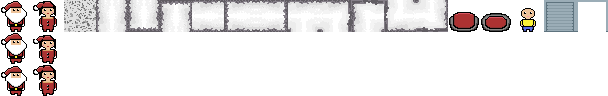
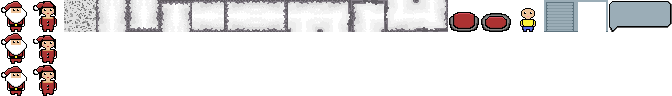
add textbackound texture

Changed region(s): [[0.0, 0.0, 1.0, 1.0]]

diff --git a/a.cpp b/a.cpp
@@ -1,0 +1,141 @@
+#include <bits/stdc++.h>
+using namespace std;
+
+using ll = long long;
+int n, m, c, q;
+const int N = 1000001;
+
+int parent[N];
+int depth[N];
+unordered_set<int> source;
+unordered_set<int> spoiled;
+vector<int> adjList[N];
+int s[N];
+int numOfMagic = 0;
+int find(int x) {
+    while (parent[x] != -1) x = parent[x];
+    return x;
+}
+bool counted[N];
+bool isSource(int x) {
+    return source.find(x) != source.end();
+}
+
+bool isSpoiled(int x) {
+    return spoiled.find(x) != spoiled.end();
+}
+void Union(int x, int y) {
+    x = find(x);
+    y = find(y);
+    if (x == y) return;
+
+    if (isSource(y) && !isSource(x)) {
+        swap(x, y);
+    } 
+
+    if ((isSource(x) && isSource(y)) || (!isSource(x) && !isSource(y))) {
+        if (depth[x] < depth[y]) swap(x, y);
+    }
+
+    parent[y] = x;
+    if (depth[x] == depth[y]) depth[x]++;
+    s[x] += s[y];
+
+    if (isSource(x) && !isSource(y)) {
+        numOfMagic += s[y];
+    }
+    
+}
+
+void solve(void){
+    cin >> n >> m >> c;
+    for (int i = 0; i < n; i++) {
+        parent[i] = -1;
+        s[i] = 1;
+    }
+    for (int i = 0; i < c; i++) {
+        int a;
+        cin >> a;
+        a--;
+        source.insert(a);
+    }
+
+    for (int i = 0; i < m; i++) {
+        int a, b;
+        cin >> a >> b;
+        a--; b--;
+        adjList[a].push_back(b);
+        adjList[b].push_back(a);
+    }
+
+    int q;
+    cin >> q;
+    vector<int> queries;
+    for (int i = 0; i < q; i++) {
+        int a;
+        cin >> a;
+        a--;
+        spoiled.insert(a);
+        queries.push_back(a);
+    }
+
+    for (int u = 0; u < n; u++) {
+        if (isSpoiled(u)) continue;
+        for (int v : adjList[u]) {
+            if (isSpoiled(v)) continue;
+            Union(v, u);
+        }
+    }
+    numOfMagic = 0;
+    for (int i = 0; i < n; i++) {
+        if (isSpoiled(i) || !isSource(i)) continue;
+        int p = find(i);
+        if (!counted[p]) {
+            counted[p] = true;
+            numOfMagic += s[p];
+        }
+    }
+    int finalMagic = numOfMagic;
+  //  cout << numOfMagic << "\n";
+    vector<int> magic(q);
+    for (int i = q - 1; i >= 0; i--) {
+        int u = queries[i];
+        // add to the forest
+        
+        spoiled.erase(u);
+        for (auto v : adjList[u]) {
+            
+            if (!isSpoiled(v)) {
+                Union(v, u);
+              //  cout << "union: " << v << " " << u << " " << numOfMagic << "\n";
+            }
+        }
+        if (isSource(u)) {
+            numOfMagic++;
+        }
+        magic[i] = numOfMagic;
+    }
+
+    vector<int> ans(q);
+    ans[q - 1] = - finalMagic + magic[q - 1];
+   
+    for (int i = q - 2; i >= 0; i--) {
+        ans[i] = magic[i] - magic[i + 1];
+    }
+
+    for (int i = 0; i < q; i++) {
+        cout << ans[i] << "\n";
+    }
+
+}
+
+
+int main(void) {
+    ios_base::sync_with_stdio(false);
+    cin.tie(NULL);
+    cout.tie(NULL);
+
+    solve();
+    
+    return 0;
+}

diff --git a/src/State/State.cpp b/src/State/State.cpp
@@ -153,12 +153,15 @@ void State::InitInternal()
         srcRectangleSize = Vector2(16, 24);
         zIndex = 1;
         std::string tileName = "Child" + std::to_string(x) + std::to_string(y);
-        TextBox* textBox = new TextBox(tileName + "textBox", tilePosition + (Vector2){50, -50}, {}, 2, "I want a bike", false);
+        
+        Object* textBackground = new Object(tileName + "textBoxBackground", tilePosition + (Vector2){50, -50}, {64, 32}, src, {19*32, 0}, {64, 32}, 1, false);
+        TextBox* textBox = new TextBox(tileName + "textBox", tilePosition + (Vector2){50, -50}, {}, 2, "I want a bike", textBackground, false);
         Child* Child1 = new Child(
             tileName, tilePosition, tileSize,
             src, srcRectangle, srcRectangleSize, zIndex, textBox);
         AddObjectToAll(Child1);
         AddObjectToAll(textBox);
+        AddObjectToAll(textBackground);
       }
     }
   }
@@ -167,11 +170,11 @@ void State::InitInternal()
   score = 0;
 
   Vector2 positionLivesText(25, 25);
-  livesText = new TextBox("LivesText", positionLivesText, {}, 2, "3", Game::GetGameFont());
+  livesText = new TextBox("LivesText", positionLivesText, {}, 2, "3", NULL, Game::GetGameFont());
   AddObjectToAll(livesText);
 
   Vector2 positionScoreText(Game::GetWidth() - 25, 25);
-  scoreText = new TextBox("ScoreText", positionScoreText, {}, 2, "1", Game::GetGameFont());
+  scoreText = new TextBox("ScoreText", positionScoreText, {}, 2, "1", NULL, Game::GetGameFont());
   AddObjectToAll(scoreText);
 
   // call begin for all objects

diff --git a/src/Graphics/Text.cpp b/src/Graphics/Text.cpp
@@ -21,6 +21,7 @@ void Text::Render(const SDL_Rect* sourceRectangle,
     TTF_SizeText(Game::GetGameFont(), currentText.c_str(), &w, &h);
     destinationRectangle->w = w;
     destinationRectangle->h = h;
+
     SDL_RenderCopyExF(Graphics::GetRenderer(), texture->GetTexture(), NULL, destinationRectangle, angle, center, flip);    
 }
 
@@ -30,13 +31,9 @@ void Text::RegenerateTexture(const SDL_Color& newColor, const std::string& newTe
     SDL_Surface* surface = TTF_RenderText_Solid(Game::GetGameFont(), currentText.c_str(), newColor);
     if(texture)
     {
-        delete texture;
-        texture = new Texture(SDL_CreateTextureFromSurface(Graphics::GetRenderer(), surface), "TextTexture");
+        delete texture;  
     }
-    else
-    {
-        texture = new Texture(SDL_CreateTextureFromSurface(Graphics::GetRenderer(), surface), "TextTexture");
-    }
+    texture = new Texture(SDL_CreateTextureFromSurface(Graphics::GetRenderer(), surface), "TextTexture");
     SDL_FreeSurface(surface);
 }
 

diff --git a/include/State/TextBox.h b/include/State/TextBox.h
@@ -9,10 +9,12 @@
 class TextBox : public Object {
 private:
     std::string text;
+    Object* textBackground;
 public:
     TextBox(const std::string& newName, Vector2 startingPosition, Vector2 startingSize,
-         int zIndexNew, const std::string &text , bool bIsVisibleNew=true, float rotation = 0.0);
+         int zIndexNew, const std::string &text , Object* textBackground, bool bIsVisibleNew=true, float rotation = 0.0);
 
     void setText(const std::string& newText);
     std::string getText() const {return text; }
+    void setBIsVisible(bool bIsVisible) { this->bIsVisible = bIsVisible; this->textBackground->bIsVisible = bIsVisible; };
 };

diff --git a/src/State/TextBox.cpp b/src/State/TextBox.cpp
@@ -4,9 +4,9 @@
 #include "Graphics/Text.h"
 
 TextBox::TextBox(const std::string& newName, Vector2 startingPosition, Vector2 startingSize,
-int zIndexNew, const std::string &text , bool bIsVisibleNew, float rotation)
+int zIndexNew, const std::string &text , Object* textBackground, bool bIsVisibleNew, float rotation)
 : Object(newName, startingPosition, startingSize, "", {}, {}, zIndexNew, 
-false, false, bIsVisibleNew, rotation),text(text){
+false, false, bIsVisibleNew, rotation),text(text), textBackground(textBackground) {
 
 }
 

diff --git a/src/State/Child.cpp b/src/State/Child.cpp
@@ -26,9 +26,9 @@ void Child::Update(float deltatime)
 	
 	if (bothPlayersClose) 
 	{
-		textBox->bIsVisible = true;
+		textBox->setBIsVisible(true);
 	} else {
-		textBox->bIsVisible = false;
+		textBox->setBIsVisible(false);
 	}
 
 	if(Input::IsKeyPressed(SDL_SCANCODE_SPACE) && Input::IsKeyPressed(SDL_SCANCODE_RETURN) && bothPlayersClose)

diff --git a/include/Graphics/Text.h b/include/Graphics/Text.h
@@ -4,7 +4,7 @@
 #include "Graphics/Sprite.h"
 
 class Text : public Sprite
-{
+{      
     public:
         // courent text
         std::string currentText;
